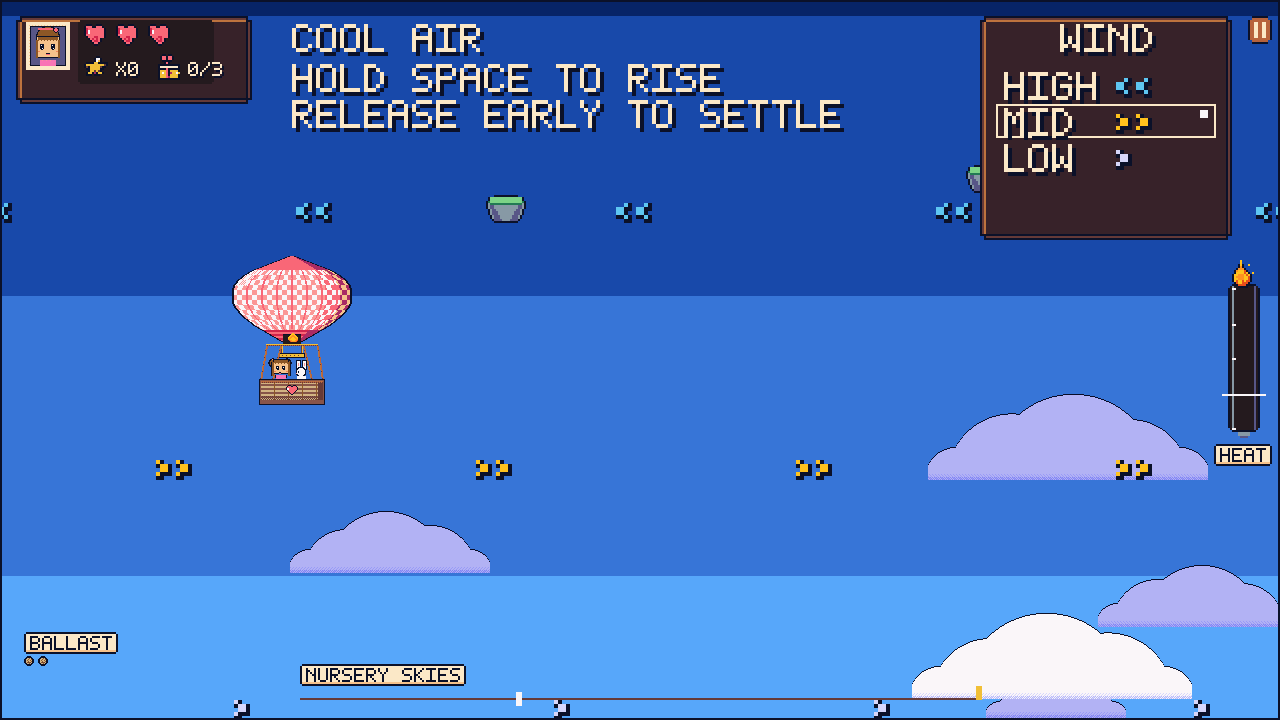
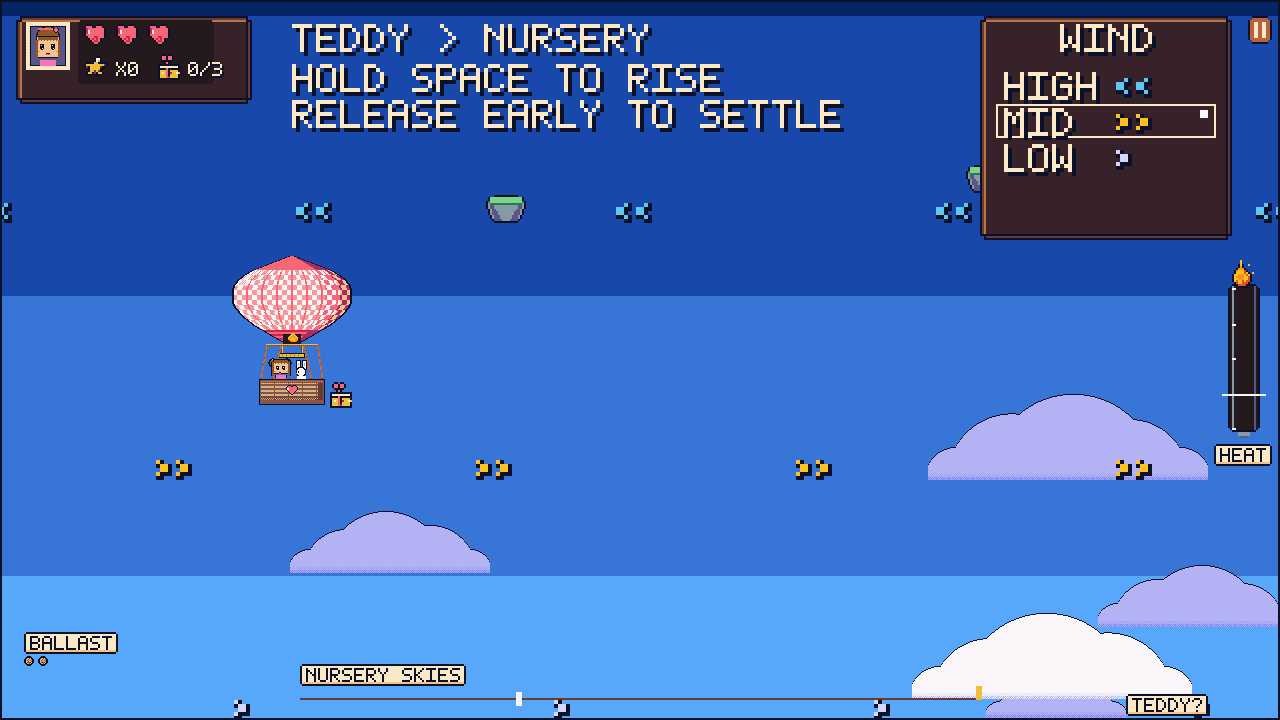
feat(delivery): collect and carry parcels to matching recipients
Initiative: 19 (real delivery state)

Verified: npm run check; 69 unit tests, 86 Playwright tests. Reviewed docs/screenshots/19-cargo-pickup-*.png and 19-cargo-home-*.png. Wrong or empty cargo cannot complete delivery; successful delivery consumes cargo once. Final parcel/recipient art follows in I22.

Changed region(s): [[0.2188, 0.0306, 0.5312, 0.0917], [0.875, 0.9472, 0.9375, 1.0], [0.25, 0.5194, 0.2812, 0.5806]]

diff --git a/tests/cargo.spec.js b/tests/cargo.spec.js
@@ -1,0 +1,19 @@
+const {test,expect}=require('@playwright/test');
+const path=require('path');
+const {bootGame,act,reviewShot,SHOTS_DIR,watchForErrors}=require('./support');
+test('a parcel must be collected and carried to its recipient',async({page},info)=>{
+ const errors=watchForErrors(page);await bootGame(page);await act(page,'settings=motion=1');
+ await act(page,'reset=1919');
+ expect((await page.evaluate(()=>window.__GAME.state())).cargoStatus).toBe('waiting');
+ await page.evaluate(()=>window.__GAME.raw('warp','550=60'));await act(page,'step=600');
+ expect((await page.evaluate(()=>window.__GAME.state())).delivered).toBe(false);
+ await act(page,'reset=1919');await act(page,'step=1');
+ let s=await page.evaluate(()=>window.__GAME.state());expect(s.cargo).toBe('teddy');expect(s.cargoStatus).toBe('carried');expect(s.recipient).toBe('NURSERY');
+ await act(page,'screen=world');await expect.poll(()=>act(page,'screen')).toBe('world');
+ await reviewShot(page,{path:path.join(SHOTS_DIR,`19-cargo-pickup-${info.project.name}.png`)});
+ expect(await act(page,'deliver=120')).toBe('ok:delivered');
+ s=await page.evaluate(()=>window.__GAME.state());expect(s.cargoStatus).toBe('delivered');expect(s.cargo).toBe('none');
+ const pickedUp=s.pickupTick;await act(page,'step=60');expect((await page.evaluate(()=>window.__GAME.state())).pickupTick).toBe(pickedUp);
+ await reviewShot(page,{path:path.join(SHOTS_DIR,`19-cargo-home-${info.project.name}.png`)});
+ expect(errors).toEqual([]);
+});

diff --git a/tests/recovery.spec.js b/tests/recovery.spec.js
@@ -6,6 +6,7 @@ test('every ballast loadout can land and a missed course returns safely',async({
  const errors=watchForErrors(page); await bootGame(page);
  for(const bags of [2,1,0]){
   await act(page,'reset=1717');
+  await act(page,'step=1'); // collect the launch parcel before testing the final approach
   await page.evaluate(()=>window.__GAME.raw('warp','550=100'));
   for(let i=2;i>bags;i--)await page.evaluate(async()=>{await window.__GAME.set('ballast',1);await window.__GAME.step(1);});
   await act(page,'step=600');

diff --git a/Balloonatic/Balloonatic.Game/Screens/WorldScreen.cs b/Balloonatic/Balloonatic.Game/Screens/WorldScreen.cs
@@ -141,7 +141,7 @@ namespace Balloonatic.Screens
             int x = (Sim.DesignWidth - w) / 2;
             int y = 76;
             Kit.Panel(canvas, new Rectangle(x, y, w, h), "DELIVERY");
-            PixelFont.DrawCentered(canvas, "CHARLOTTE IS SAFE", x + w / 2, y + 26, Theme.TagCream);
+            PixelFont.DrawCentered(canvas, level.DeliveredMessage, x + w / 2, y + 26, Theme.TagCream);
 
             // Frozen clock: the delivered time, not a live count — a score that keeps climbing is not a score.
             int seconds = state.CompletedAtTick / Sim.StepHz;
@@ -310,7 +310,7 @@ namespace Balloonatic.Screens
             }
 
             DrawIsland(canvas, level, state, camX, groundY, worldX: 0, name: "HOME", launch: true);
-            DrawIsland(canvas, level, state, camX, groundY, worldX: (int)level.CourseLength, name: "GO", launch: false);
+            DrawIsland(canvas, level, state, camX, groundY, worldX: (int)level.CourseLength, name: level.DestinationName, launch: false);
         }
 
         static void DrawIsland(
@@ -333,9 +333,17 @@ namespace Balloonatic.Screens
             float signY = groundY - 52;
             int xi = Round(x);
             canvas.Fill(x - 1, signY + 12, 2, 8, Theme.BarkBrown);
-            canvas.CutRectangle(x - 16, signY - 2, 32, 14, 1, Theme.Ink);
-            canvas.Fill(x - 15, signY - 1, 30, 12, Theme.TagCream);
+            int signWidth = Math.Max(32, PixelFont.Width(name) + 8);
+            canvas.CutRectangle(x - signWidth / 2, signY - 2, signWidth, 14, 1, Theme.Ink);
+            canvas.Fill(x - signWidth / 2 + 1, signY - 1, signWidth - 2, 12, Theme.TagCream);
             PixelFont.Draw(canvas, name, xi - name.Length * 3 + 1, Round(signY) + 2, Theme.Ink);
+            if (launch && state.CargoStatus == "waiting")
+                Sprites.Draw(canvas, "gift", x + 34, groundY - 51);
+            if (!launch)
+            {
+                Sprites.Draw(canvas, "heart-hud", x + 35, groundY - 54);
+                Kit.Tag(canvas, xi + 10, Round(groundY) - 78, state.Delivered ? "THANK YOU!" : level.RequestLabel);
+            }
 
             // The windsock flies off the windward post of the deck — the truth about this altitude,
             // in world. The sheet sock inflates from its post downwind; a band blowing left mirrors it.
@@ -470,6 +478,8 @@ namespace Balloonatic.Screens
             Color? tint = hurtWindow && AppSettings.ReducedMotion ? new Color(150, 150, 150) : null;
 
             Sprites.Draw(canvas, "balloon", frame, x - size.X / 2, foot - size.Y, tint: tint);
+            if (state.Cargo != CargoKind.None)
+                Sprites.Draw(canvas, "gift", x + 18, foot - 12);
 
             // I12 burner puffs: while heat is on, three small puffs vent from the envelope crown on a
             // rolling 30-tick cycle — pure from the decoration clock, palette clouds, and gone the
@@ -561,10 +571,10 @@ namespace Balloonatic.Screens
             // This is the HUD's only real job — the sole steering the player has.
             Kit.WindLadder(canvas, state, level);
             string heat = FlightGuidance.HeatTrend(state);
-            PixelFont.DrawShadowed(canvas, heat == "heating" ? "HEATING" : heat == "cooling" ? "COOLING" : "COOL AIR",
-                146, 12, heat == "heating" ? Theme.FlameYellow : Theme.TagCream, 2);
-            PixelFont.DrawShadowed(canvas, "HOLD SPACE TO RISE", 146, 32, Theme.TagCream, 2);
-            PixelFont.DrawShadowed(canvas, "RELEASE EARLY TO SETTLE", 146, 50, Theme.TagCream, 2);
+            PixelFont.DrawShadowed(canvas, state.Delivered ? level.DeliveredMessage : state.Cargo == CargoKind.None ? level.CollectObjective : level.CarryObjective,
+                146, 12, Theme.TagCream, 2);
+            PixelFont.DrawShadowed(canvas, heat == "heating" ? "HEATING - HOLD SPACE" : heat == "cooling" ? "COOLING - LET GO EARLY" : "HOLD SPACE TO RISE", 146, 32, Theme.TagCream, 2);
+            PixelFont.DrawShadowed(canvas, state.PickupTick >= 0 && state.Tick - state.PickupTick < 150 ? "PARCEL SAFELY ABOARD" : "RELEASE EARLY TO SETTLE", 146, 50, Theme.TagCream, 2);
 
             // ---- heat gauge, right edge: a brass instrument capped with a live flame, the way the
             // sheet draws the burner's own thermometer ----

diff --git a/Balloonatic/Balloonatic.Core/SimState.cs b/Balloonatic/Balloonatic.Core/SimState.cs
@@ -60,6 +60,9 @@ namespace Balloonatic.Core
 
         /// <summary>True once the basket has come down soft on the delivery deck. The level's whole point.</summary>
         public bool Delivered;
+        public CargoKind Cargo;
+        public int PickupTick = -1;
+        public string CargoStatus => Delivered ? "delivered" : Cargo == CargoKind.None ? "waiting" : "carried";
 
         /// <summary>Run is over — a soft landing (any outcome that ends the flight) freezes input.</summary>
         public bool Complete;
@@ -129,6 +132,8 @@ namespace Balloonatic.Core
                 VelocityX = VelocityX,
                 LevelId = LevelId,
                 Delivered = Delivered,
+                Cargo = Cargo,
+                PickupTick = PickupTick,
                 Complete = Complete,
                 Bounces = Bounces,
                 BounceTick = BounceTick,
@@ -194,6 +199,12 @@ namespace Balloonatic.Core
                 return;
 
             state.Heating = input.Heat;
+            if (state.Cargo == CargoKind.None && level.OverLaunchDeck(state.X)
+                && Math.Abs(state.Altitude - SimTuning.DeckTopAltitude) <= 24f)
+            {
+                state.Cargo = level.Package;
+                state.PickupTick = state.Tick;
+            }
 
             if (input.Heat)
             {
@@ -250,8 +261,9 @@ namespace Balloonatic.Core
                     if (-state.VelocityY <= SimTuning.SoftLandingVy)
                     {
                         state.VelocityY = 0f;
-                        if (overDelivery)
+                        if (overDelivery && state.Cargo == level.Package)
                         {
+                            state.Cargo = CargoKind.None;
                             state.Delivered = true;
                             state.Complete = true;
                             state.CompletedAtTick = state.Tick;
@@ -394,6 +406,8 @@ namespace Balloonatic.Core
             h = Mix(h, Bits(state.X));
             h = Mix(h, Bits(state.VelocityX));
             h = Mix(h, state.Delivered ? 1UL : 0UL);
+            h = Mix(h, (ulong)state.Cargo);
+            h = Mix(h, unchecked((ulong)state.PickupTick));
             h = Mix(h, state.Complete ? 1UL : 0UL);
             h = Mix(h, (ulong)state.Bounces);
             h = Mix(h, (ulong)state.BounceTick);

diff --git a/Balloonatic/Balloonatic.Core/Level.cs b/Balloonatic/Balloonatic.Core/Level.cs
@@ -202,13 +202,27 @@ namespace Balloonatic.Core
         /// <summary>HUD-drawn form of the name, upper-cased once at construction: the draw loop must
         /// not allocate, or the garbage collector introduces the frame spikes the playtest felt.</summary>
         public string NameUpper { get; }
+        public CargoKind Package { get; }
+        public string PackageName { get; }
+        public string DestinationName { get; }
+        public string CollectObjective { get; }
+        public string CarryObjective { get; }
+        public string DeliveredMessage { get; }
+        public string RequestLabel { get; }
 
         public LevelDef(string id, string name, float worldHeight, WindBand[] bands, GustZone[] gusts, float courseLength, int parSeconds,
-                        RockDef[]? rocks = null, BirdDef[]? birds = null, StormZone[]? storms = null)
+                        RockDef[]? rocks = null, BirdDef[]? birds = null, StormZone[]? storms = null, CargoKind package = CargoKind.Teddy)
         {
             Id = id;
             Name = name;
             NameUpper = name.ToUpperInvariant();
+            Package = package;
+            PackageName = package == CargoKind.Bottle ? "BOTTLE" : package == CargoKind.Letter ? "LETTER" : "TEDDY";
+            DestinationName = id == "nursery-skies" ? "NURSERY" : id == "winding-trail" ? "TOY ROOM" : "COTTAGE";
+            CollectObjective = "COLLECT THE " + PackageName;
+            CarryObjective = PackageName + " > " + DestinationName;
+            DeliveredMessage = PackageName + " IS HOME!";
+            RequestLabel = PackageName + "?";
             WorldHeight = worldHeight;
             Bands = bands;
             Gusts = gusts ?? Array.Empty<GustZone>();

diff --git a/Balloonatic/Balloonatic.Game/BalloonaticGame.cs b/Balloonatic/Balloonatic.Game/BalloonaticGame.cs
@@ -52,6 +52,7 @@ namespace Balloonatic
         // I11 audio edge cache: the director turns state into sound by watching for edges here,
         // renderer side — it reads state, never writes it, like every other decoration.
         int prevBounces, prevHearts, prevDrops;
+        int prevPickupTick = -1;
         bool prevDelivered;
         bool mouseWasPressed;
 
@@ -406,6 +407,7 @@ namespace Balloonatic
             Audio.Sound.SetMusic(s.Screen is not (SimState.ScreenPause or SimState.ScreenScaffold or SimState.ScreenStyle));
             Audio.Sound.SetBurner(onWorld && s.Heating && !s.Complete);
 
+            if (s.PickupTick >= 0 && prevPickupTick < 0 && !s.Delivered) Audio.Sound.Play("chime");
             if (s.Bounces > prevBounces) Audio.Sound.Play("creak");
             if (s.Hearts < prevHearts) Audio.Sound.Play("giggle");         // she laughs it off — losing is not a scold
             if (s.DropsSeen > prevDrops) Audio.Sound.Play("thump");
@@ -421,6 +423,7 @@ namespace Balloonatic
             prevHearts = s.Hearts;
             prevDrops = s.DropsSeen;
             prevDelivered = s.Delivered;
+            prevPickupTick = s.PickupTick;
             Audio.Sound.Tick();
         }
 

diff --git a/Balloonatic/Balloonatic.Tests/CargoTests.cs b/Balloonatic/Balloonatic.Tests/CargoTests.cs
@@ -1,0 +1,28 @@
+using Balloonatic.Core;
+using FluentAssertions;
+using Xunit;
+namespace Balloonatic.Tests;
+public class CargoTests
+{
+    [Fact]
+    public void Launch_pickup_is_carried_until_delivery_and_consumed_once()
+    {
+        SimState s=new(){Seed=1234};
+        s.CargoStatus.Should().Be("waiting");
+        SimRules.Step(s,SimInput.None);
+        s.Cargo.Should().Be(CargoKind.Teddy);
+        s.CargoStatus.Should().Be("carried");
+        int pickup=s.PickupTick;
+        Autopilot.Deliver(s,LevelCatalog.Get(s.LevelId),120).Should().BeTrue();
+        s.CargoStatus.Should().Be("delivered");s.Cargo.Should().Be(CargoKind.None);
+        SimRules.Step(s,new SimInput{Heat=true});s.PickupTick.Should().Be(pickup);
+    }
+    [Theory]
+    [InlineData(CargoKind.None)][InlineData(CargoKind.Letter)]
+    public void Empty_or_wrong_cargo_cannot_complete_a_delivery(CargoKind cargo)
+    {
+        SimState s=new(){Seed=1234,X=600,Altitude=43,VelocityY=-10,Cargo=cargo};
+        for(int i=0;i<20;i++)SimRules.Step(s,SimInput.None);
+        s.Delivered.Should().BeFalse();s.Complete.Should().BeFalse();
+    }
+}

diff --git a/Balloonatic/Balloonatic.Core/TestHarness.cs b/Balloonatic/Balloonatic.Core/TestHarness.cs
@@ -412,6 +412,10 @@ namespace Balloonatic.Core
               .Append("\"windDirection\":").Append(level.BandAt(_state.Altitude).Direction).Append(',')
               .Append("\"approach\":\"").Append(FlightGuidance.Approach(_state, level)).Append("\",")
               .Append("\"heatTrend\":\"").Append(FlightGuidance.HeatTrend(_state)).Append("\",")
+              .Append("\"cargo\":\"").Append(_state.Cargo.ToString().ToLowerInvariant()).Append("\",")
+              .Append("\"cargoStatus\":\"").Append(_state.CargoStatus).Append("\",")
+              .Append("\"pickupTick\":").Append(_state.PickupTick).Append(',')
+              .Append("\"recipient\":\"").Append(level.DestinationName).Append("\",")
               .Append("\"windAssist\":").Append(_state.WindAssist ? "true" : "false").Append(',')
               .Append("\"settings\":\"").Append(AppSettings.Describe()).Append("\",")
               .Append("\"hash\":\"").Append(SimRules.HashHex(_state)).Append('"')

diff --git a/Balloonatic/Balloonatic.Tests/RecoveryTests.cs b/Balloonatic/Balloonatic.Tests/RecoveryTests.cs
@@ -10,7 +10,7 @@ public class RecoveryTests
     public void Every_loadout_can_cool_descend_and_land_without_another_bag(int bags)
     {
         LevelDef calm = new("calm", "Calm", 400, new[]{new WindBand(0,400,1,1)}, System.Array.Empty<GustZone>(),600,60);
-        SimState state = new(){Seed=1234, X=600, Altitude=160, BallastHeld=bags, VelocityY=0};
+        SimState state = new(){Seed=1234, X=600, Altitude=160, BallastHeld=bags, VelocityY=0, Cargo=calm.Package};
         for(int i=0;i<1200 && !state.Delivered;i++)
         {
             state.X=600; state.VelocityX=0; // isolates descent from the wind puzzle

diff --git a/Balloonatic/Balloonatic.Tests/DeliveryTests.cs b/Balloonatic/Balloonatic.Tests/DeliveryTests.cs
@@ -23,6 +23,7 @@ namespace Balloonatic.Tests
             s.Altitude = altitude;
             s.VelocityY = velocityY;
             s.LevelId = level.Id;
+            s.Cargo = level.Package; // fixtures on final approach have already collected their parcel
             return s;
         }
 

diff --git a/Balloonatic/Balloonatic.Core/CargoKind.cs b/Balloonatic/Balloonatic.Core/CargoKind.cs
@@ -1,0 +1,2 @@
+namespace Balloonatic.Core;
+public enum CargoKind { None, Teddy, Bottle, Letter }

diff --git a/PLAN.md b/PLAN.md
@@ -49,8 +49,11 @@ complete; implementation is proceeding in the order below.
   Verified: 66 unit tests, 84 browser tests; reviewed `18-wind-approach-*` at both sizes.
   Instrument space is reserved above the envelope; heat gauge marks load-dependent hover temperature.
   Screenshot exports retry only transient file access errors and settle screen transitions.
-- [ ] **I19 — Real delivery state** (~90m)
+- [x] **I19 — Real delivery state** (~90m)
   One visible teddy pickup, carried cargo, matching nursery recipient, and grateful completion.
+  Verified: 69 unit tests, 86 browser tests; reviewed `19-cargo-pickup-*` and `19-cargo-home-*`.
+  Empty/wrong parcels cannot complete a delivery; pickup/delivery state is hashed and replayed.
+  The existing parcel icon and recipient marker will receive their final art in I22.
 - [ ] **I20 — Nursery tutorial route** (~90m)
   Safe teaching geometry, useful altitude choice, readable destination; legal replay with hazards on.
 - [ ] **I21 — Charlotte and craft** (~90m)
